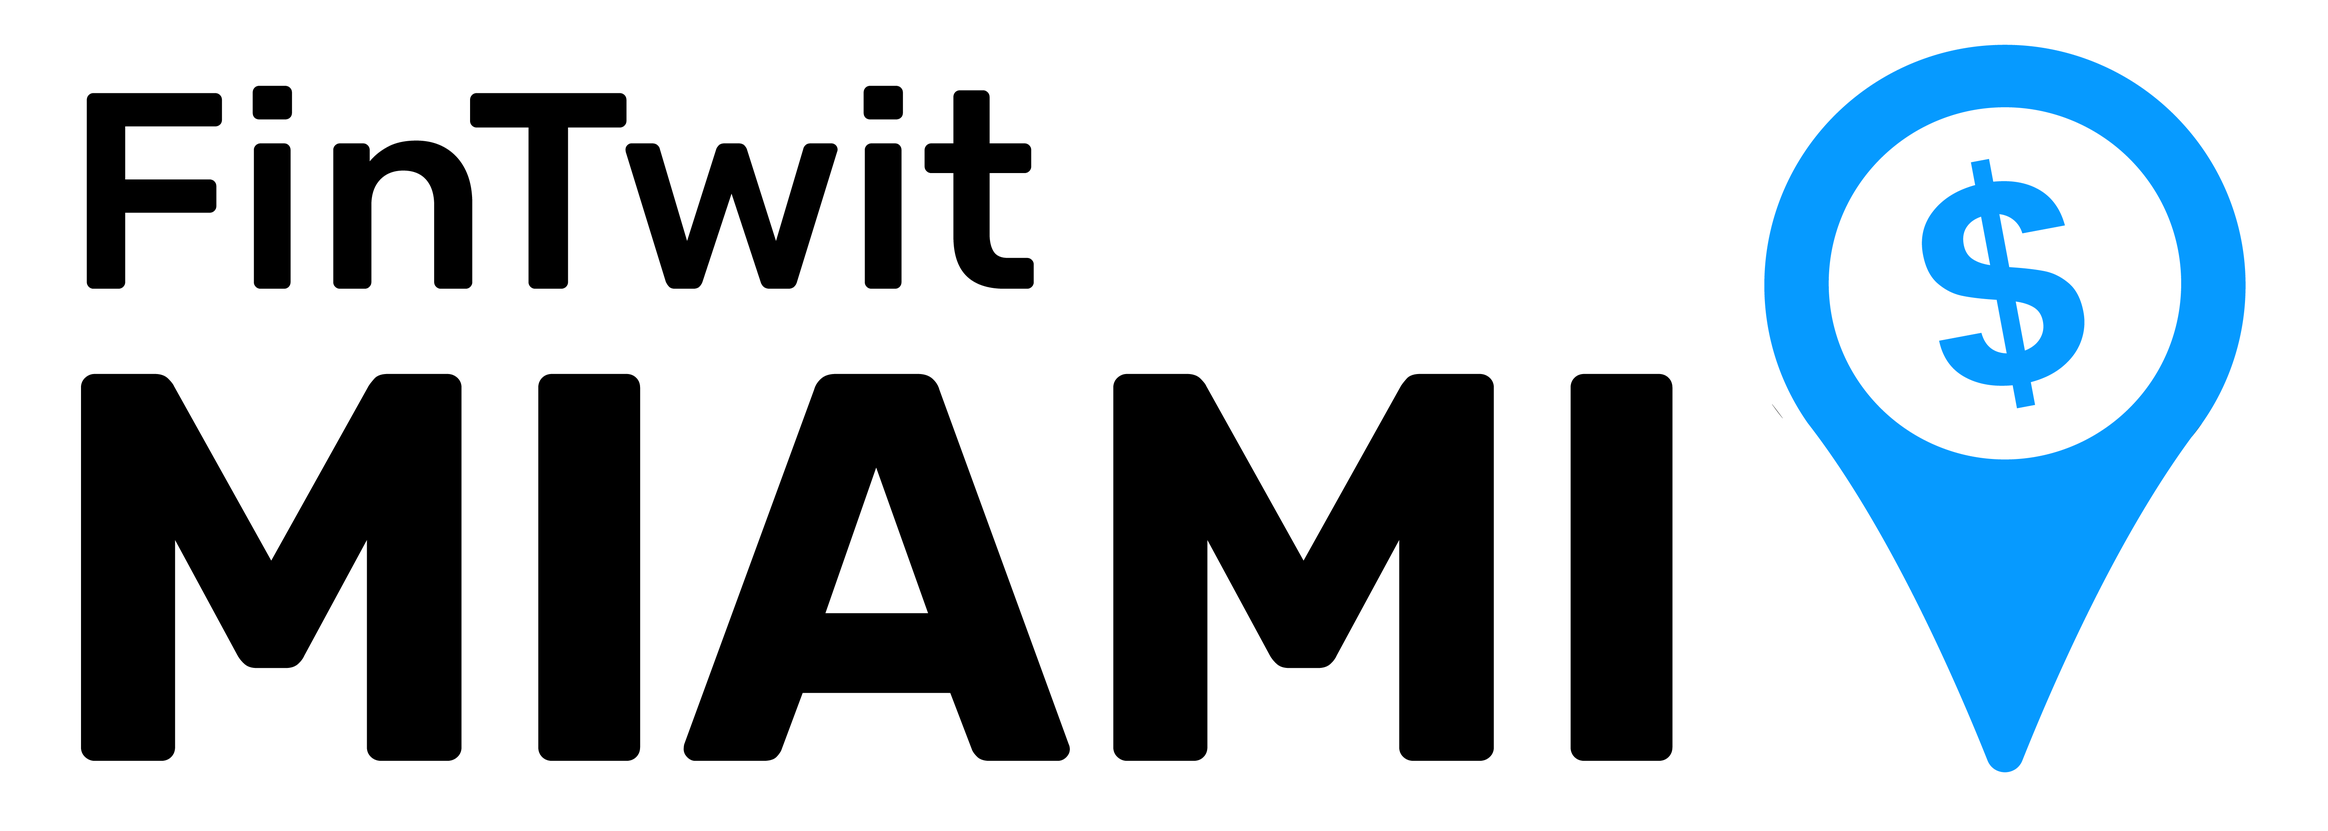
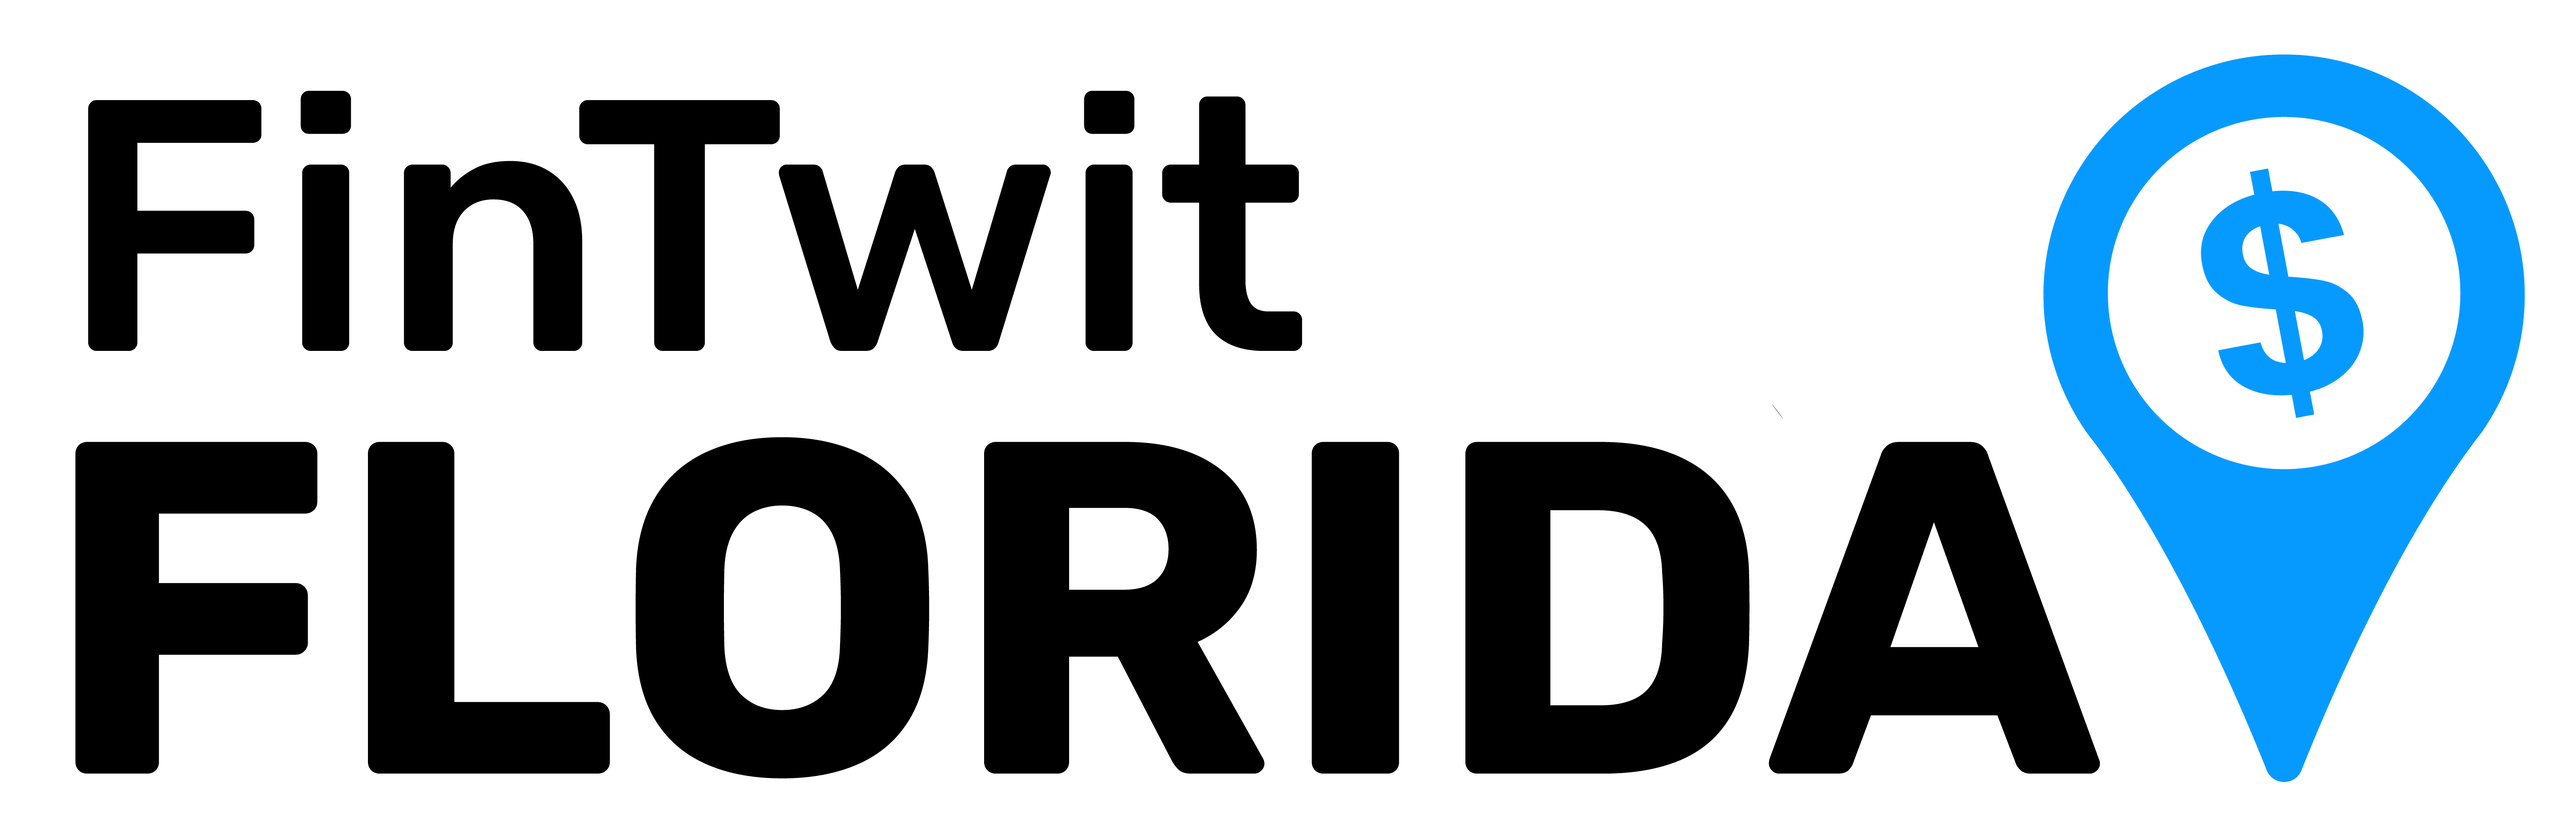
Add files via upload

diff --git a/index.html b/index.html
@@ -12,7 +12,7 @@
     <link rel="manifest" href="/site.webmanifest" />
     <link rel="mask-icon" href="/safari-pinned-tab.svg" color="#2d89ef" />
     <meta name="apple-mobile-web-app-title" content="WOLF" />
-    <meta name="application-name" content="Fintwit Goes to Miami" />
+    <meta name="application-name" content="Fintwit Goes to Florida" />
     <meta name="msapplication-TileColor" content="#2d89ef" />
     <meta name="theme-color" content="#ffffff" />
     <meta charset="UTF-8" />
@@ -62,7 +62,12 @@
     <div class = 'sponsors'>
 
         <div class = 'flex'>
-            <img id = 'partners' class = 'sponsor' src = 'partners.png' alt = 'image'>
+            <img class = 'sponsor' src = 'sponsor.png' alt = 'image'>
+            <img class = 'sponsor' src = 'sponsor.png' alt = 'image'>
+            <img class = 'sponsor' src = 'sponsor.png' alt = 'image'>
+            <img class = 'sponsor' src = 'sponsor.png' alt = 'image'>
+            <img class = 'sponsor' src = 'sponsor.png' alt = 'image'>
+            <img class = 'sponsor' src = 'sponsor.png' alt = 'image'>
             <img class = 'sponsor' src = 'sponsor.png' alt = 'image'>
             <img class = 'sponsor' src = 'sponsor.png' alt = 'image'>
             <img class = 'sponsor' src = 'sponsor.png' alt = 'image'>
@@ -162,7 +167,7 @@
         </div>
 
         <div class = 'sec'>
-            <h1> What if I can't make it to Miami? </h1>
+            <h1> What if I can't make it? </h1>
             <p>
                 We're looking into a live streaming option for people that can't attend the event in person.
                 If we can figure this out then those tickets would probably be <span> $25/ticket. </span>
@@ -182,14 +187,13 @@
             </p>
             <p>
                 Our goal is to have enough revenue from both ticket sales and sponsorships to cover breakfast
-                & lunch on Saturday and Sunday as well as any happy hours and pool parties that we put together.
-                We might not be able to cover 100% of everyone's food & drink costs but we'll do our best.
+                & lunch on Saturday as well as any happy hours and pool parties that we put together.
             </p>
         </div>
 
         <div class = 'sec'>
 
-            <h2> Special Thanks to <a href = 'https://wolf.financial'> WOLF Financial </a> for helping with the planning of this event.</h2>
+            <h2> Special thanks to <a href = 'https://wolf.financial'> WOLF Financial </a> for helping with the planning of this event.</h2>
             <img src = 'wolf.png'>
         </div>
 
@@ -270,14 +274,8 @@
     </div>
 
     <div class = 'footer'>
-        <p> Lorem ipsum dolor sit amet, consectetur adipiscing elit, sed do eiusmod tempor incididunt
-            ut labore et dolore magna aliqua. Ut enim ad minim veniam, quis nostrud exercitation ullamco
-            laboris nisi ut aliquip ex ea commodo consequat. Duis aute irure dolor in reprehenderit in
-            voluptate velit esse cillum dolore eu fugiat nulla pariatur. Excepteur sint occaecat cupidatat
-            non proident, sunt in culpa qui officia deserunt mollit anim id est laborum.
-        </p>
         <p>
-            © Me 2021, All Rights Reserved
+            © WOLF Financial LLC 2021, All Rights Reserved
         </p>
     </div>
 

diff --git a/style.css b/style.css
@@ -297,6 +297,8 @@ a:hover {
     -webkit-box-pack: center;
         -ms-flex-pack: center;
             justify-content: center;
+    -ms-flex-wrap: wrap;
+        flex-wrap: wrap;
     width: 98vw;
     margin: auto;
   }
@@ -309,8 +311,8 @@ a:hover {
     margin-left: 1.5vw;
   }
   .sponsor {
-    width: calc( 94vw / 7);
-    height: calc( 94vw / 14);
+    width: calc( 96vw / 7);
+    height: calc( 96vw / 14);
     margin: calc(2vw / 7);
     border-radius: 5px;
   }

diff --git a/style.scss b/style.scss
@@ -282,6 +282,7 @@ a{
         display: flex;
         align-items: center;
         justify-content: center;
+        flex-wrap: wrap;
         width: 98vw;
         margin: auto;
     }
@@ -296,8 +297,8 @@ a{
     }
 
     .sponsor{
-        width: calc( 94vw / 7);
-        height: calc( 94vw / 14);
+        width: calc( 96vw / 7);
+        height: calc( 96vw / 14);
         margin: calc(2vw / 7);
         border-radius: 5px;
     }
